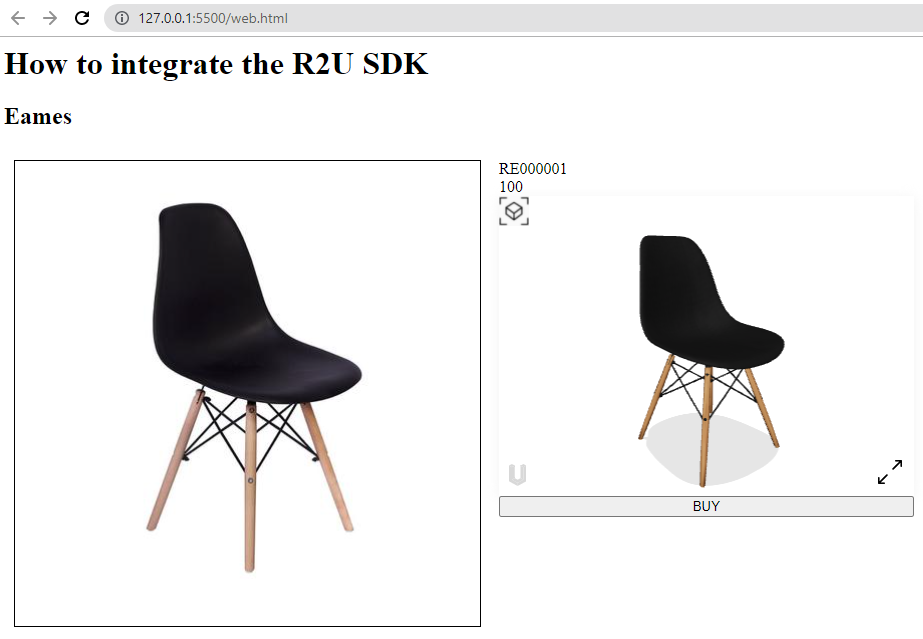
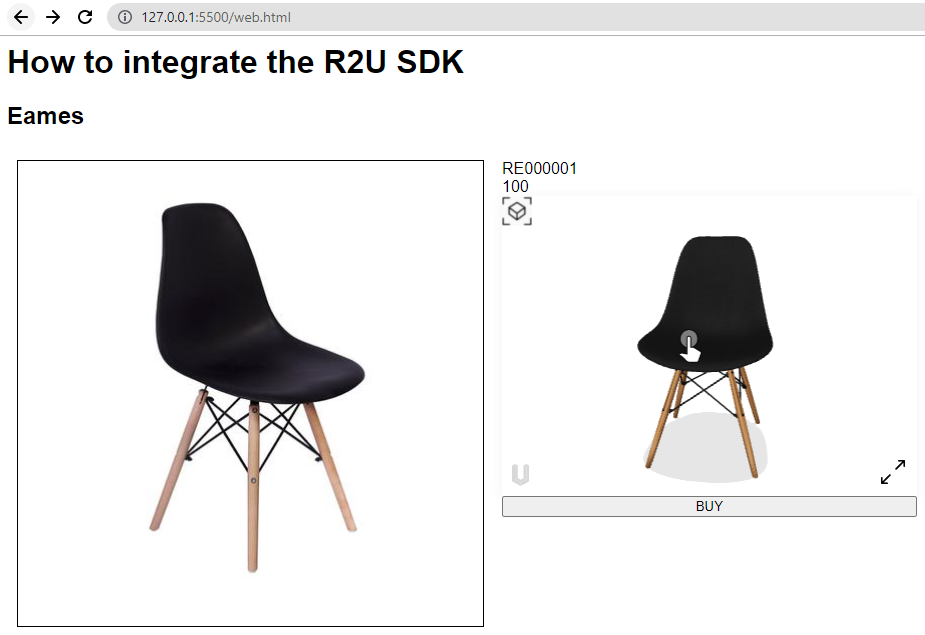
change font, fix some translations, add script name

diff --git a/i18n/pt/docusaurus-plugin-content-docs/current/augmented-reality.md b/i18n/pt/docusaurus-plugin-content-docs/current/augmented-reality.md
@@ -198,7 +198,7 @@ R2U.ar.getLink('RE000001').then((url) => console.log(url))
 
 ## Exemplo completo
 
-In your HTML we will need this basic structure:
+No arquivo HTML, a seguinte estrutura mínima é necessária:
 ```html
 <html>
   <head>
@@ -208,7 +208,7 @@ In your HTML we will need this basic structure:
     <script src='integration-mobile.js'></script>
   </head>
 
-  <body> 
+  <body style="font-family: sans-serif;"> 
     <h1>Como integrar o SDK R2U</h1>
     <!-- um container para o nome -->
     <h2 id="name">Eames</h2>
@@ -219,15 +219,15 @@ In your HTML we will need this basic structure:
       <!-- um container para o preço -->
       <div id="price" style="font-size: xx-large;">100</div>
       <!-- um botão ou link para abrir a RA -->
-      <button id="r2u-ar" style="width: 100%; font-size: xx-large;" >VIEW IN YOUR SPACE</button>
+      <button id="r2u-ar" style="width: 100%; font-size: xx-large;" >VEJA NO SEU ESPAÇO</button>
       <!-- um botão ou link de compra -->
-      <button class="buy-button" style="width: 100%; font-size: xx-large;">BUY</button>
+      <button class="buy-button" style="width: 100%; font-size: xx-large;">COMPRAR</button>
     </div>
   </body>
 </html>
 ```
 
-And then, on your JS file, you can add this snippet:
+E no script JS (chamado `integration-mobile.js` nesse exemplo), pode-se adicionar o seguinte snippet:
 ```typescript
 document.addEventListener('DOMContentLoaded', async (event) => { 
   // inicializando 

diff --git a/i18n/pt/docusaurus-plugin-content-docs/current/3D-viewer.md b/i18n/pt/docusaurus-plugin-content-docs/current/3D-viewer.md
@@ -217,7 +217,7 @@ No arquivo HTML, a seguinte estrutura mínima é necessária:
     <script src='https://unpkg.com/@r2u/javascript-ar-sdk@6.5.4/dist/index.js'></script>
     <script src='integration-web.js'></script>
   </head>
-  <body> 
+  <body style="font-family: sans-serif;"> 
     <h1>Como integrar o SDK R2U</h1>
     <!-- um container para o nome -->
     <h2 id="name">Eames</h2>
@@ -244,14 +244,14 @@ No arquivo HTML, a seguinte estrutura mínima é necessária:
         <!-- um container para o visializador -->
         <div id="r2u-viewer"></div>
         <!-- um botão ou link de compra -->
-      <button class="buy-button" style="width: 100%">BUY</button>
+      <button class="buy-button" style="width: 100%">COMPRAR</button>
       </div>
     </div>
   </body>
 </html>
 ```
 
-E no script JS, pode-se adicionar o seguinte snippet:
+E no script JS (chamado `integration-web.js` nesse exemplo), pode-se adicionar o seguinte snippet:
 ```typescript
 document.addEventListener('DOMContentLoaded', async (event) => { 
   // inicializando

diff --git a/docs/3D-viewer.md b/docs/3D-viewer.md
@@ -216,7 +216,7 @@ In your HTML file you will need this basic structure:
     <script src='https://unpkg.com/@r2u/javascript-ar-sdk@6.5.4/dist/index.js'></script>
     <script src='integration-web.js'></script>
   </head>
-  <body> 
+  <body style="font-family: sans-serif;"> 
     <h1>How to integrate the R2U SDK</h1>
     <!-- a container for the name -->
     <h2 id="name">Eames</h2>
@@ -250,7 +250,7 @@ In your HTML file you will need this basic structure:
 </html>
 ```
 
-And then, on your JS file, you can add this snippet:
+And then, on your JS file (called `integration-web.js` in this example), you can add this snippet:
 ```typescript
 document.addEventListener('DOMContentLoaded', async (event) => { 
   // init

diff --git a/docs/augmented-reality.md b/docs/augmented-reality.md
@@ -210,7 +210,7 @@ In your HTML file you will need this basic structure:
     <script src='integration-mobile.js'></script>
   </head>
 
-  <body> 
+  <body style="font-family: sans-serif;"> 
     <h1>How to integrate the R2U SDK</h1>
     <!-- a container for the name -->
     <h2 id="name">Eames</h2>
@@ -229,7 +229,7 @@ In your HTML file you will need this basic structure:
 </html>
 ```
 
-And then, on your JS file, you can add this snippet:
+And then, on your JS file (called `integration-mobile.js` in this example), you can add this snippet:
 ```typescript
 document.addEventListener('DOMContentLoaded', async (event) => { 
   //init 
